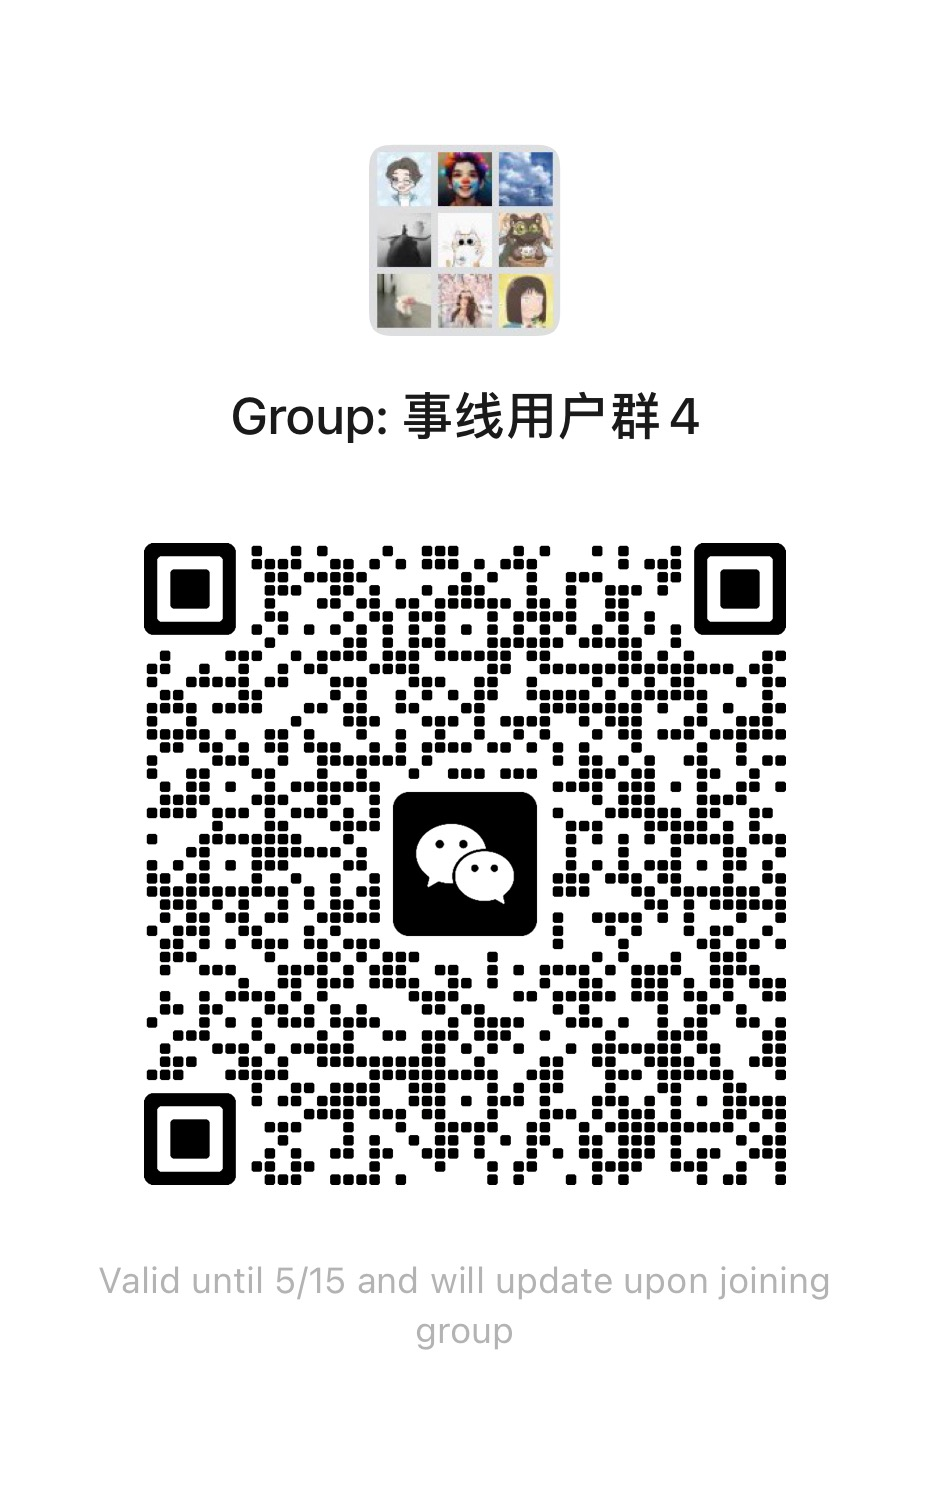
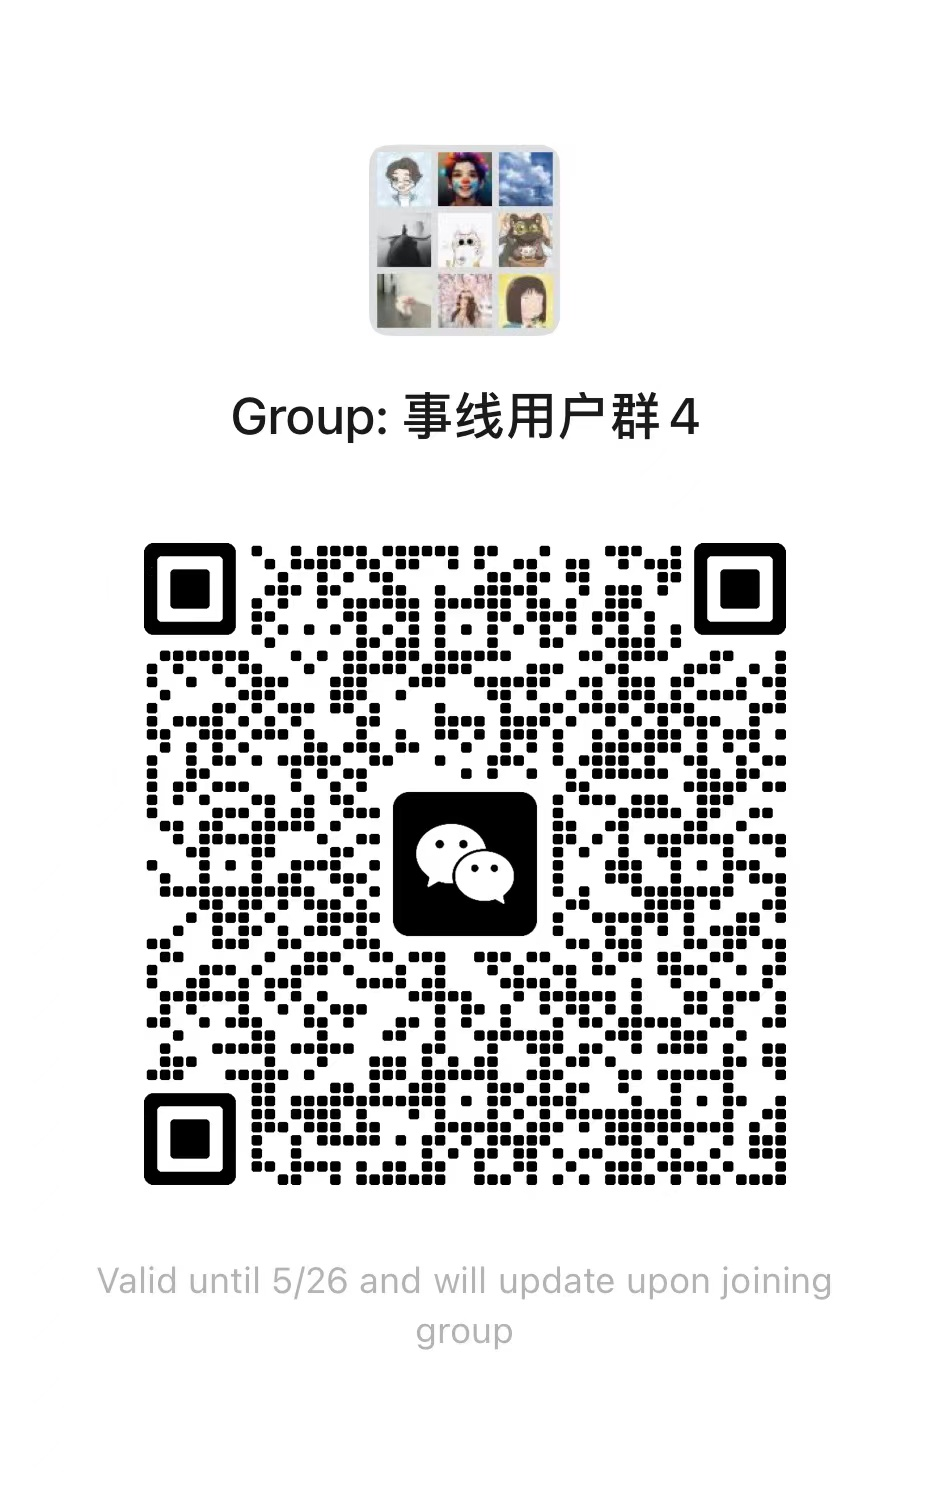
a

diff --git a/docs/01.pages/03.共建/002.用户群.md b/docs/01.pages/03.共建/002.用户群.md
@@ -9,7 +9,7 @@ permalink: /pages/16d8ae/
 
 <img src="/img/vx.jpg" class="no-zoom" style="width:15rem;margin: 10px;border-radius: 15px;margin: 2rem 0;box-shadow: 0 0px 20px rgb(0 0 0 / 20%);">
 
-#### （5月15日失效）
+#### （5月26日失效）
 
 
 :::
